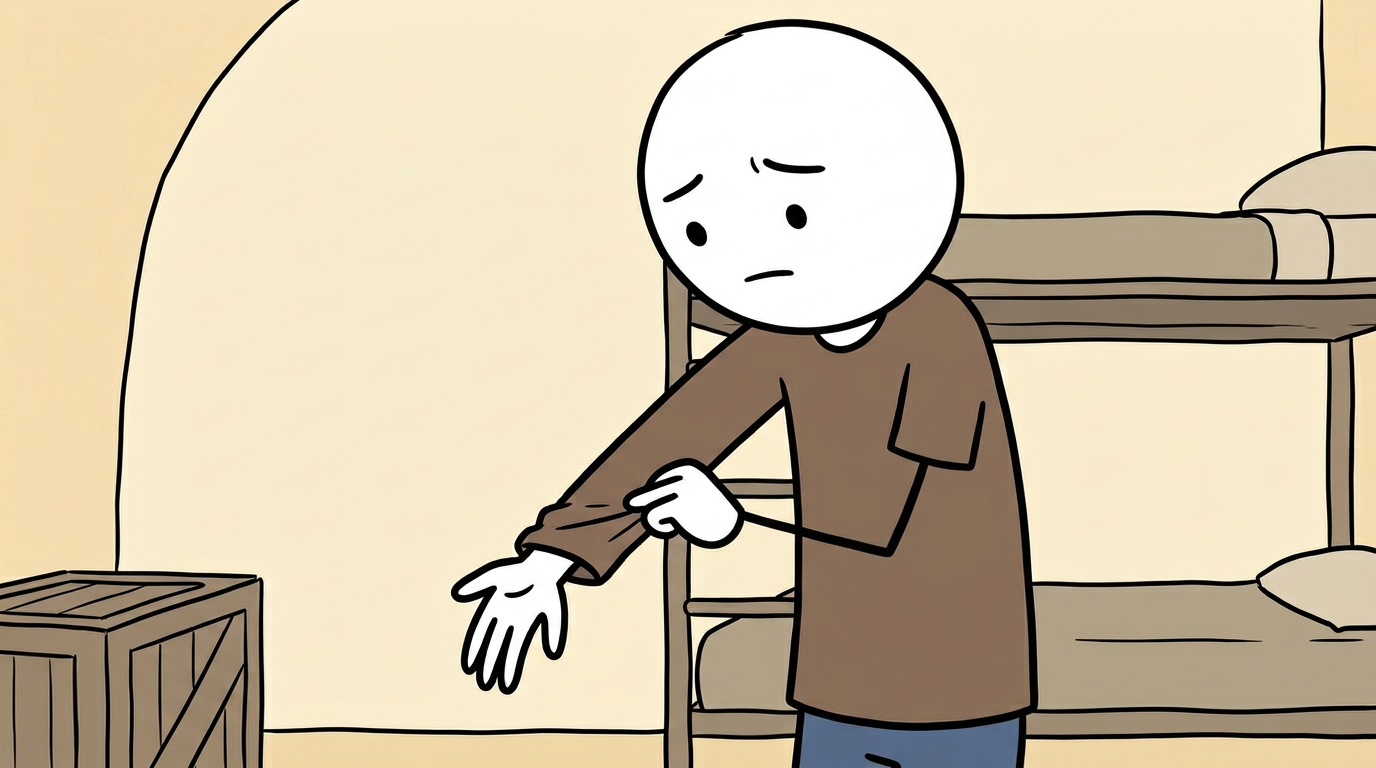
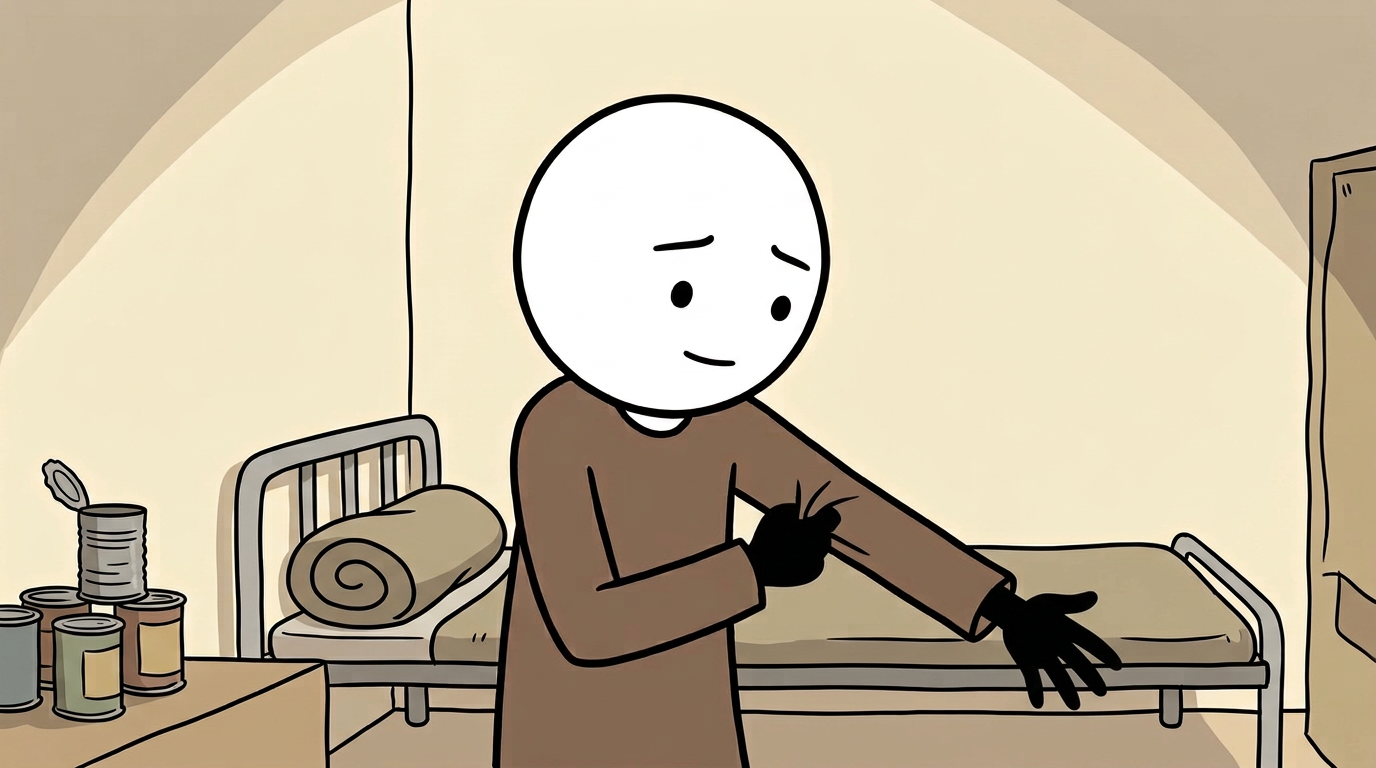
Complete Worker 4 frame paths with declared visual exceptions

diff --git a/one_of_them_video/STATE.md b/one_of_them_video/STATE.md
@@ -287,3 +287,33 @@ Branch: arena/65278339-newrepo2
 - Contact sheet: /home/user/one_of_them_qc/batch_pending_01_sheet.jpg.
 - Next: resolve missing 10m06, 10m23, 11m05 and review the 11m17 exception;
   no final video is possible until every required frame is present.
+
+## 2026-11-01 (Worker 4, final pending-frame batch)
+
+- All 83 assigned frame paths now exist (verified against rows 263-345).
+  This is NOT full-project completion: Workers 1-3 remain separate, and
+  two Worker 4 images below are declared visual exceptions for review.
+- DECLARED VISUAL EXCEPTION 10m06: after repeated moderation blocks, the
+  closest returned image shows survivors waving boards, but it resembles a
+  split composition and the protagonist holds a cup rather than actively
+  fighting. A repair specifying a single continuous scene was blocked. It is
+  shipped as the closest available image, not represented as a full QC pass.
+  The prior missing-frame exception is resolved by this candidate.
+- DECLARED VISUAL EXCEPTION 10m23: repeated attempts showing the knife were
+  blocked. The only returned candidate shows the protagonist behind the
+  green-coat woman with a star and motion lines, but does NOT clearly depict
+  the knife or action in the narration. It is shipped as an implied-action
+  substitute for review, not represented as an exact depiction.
+- 11m05 resolved: symbolic survivor silhouettes with raised boards and the
+  protagonist at a distance convey the feared living-world threat. No gun is
+  visible; boards are the weapon shapes. No actual event is implied.
+- 11m17 replacement resolves the earlier sleeve exception: both arms now
+  have brown sleeves down, one hand adjusts the other sleeve and no scar is
+  exposed. The previous short-sleeve version is in the contact sheet.
+- 10m23 green coat and short dark hair match 10m07; 11m17 protagonist's
+  brown long sleeves match 10m14. No new anchor.
+- Contact sheet (including earlier 11m17 version and 10m06 closest image):
+  /home/user/one_of_them_qc/batch_pending_02_sheet.jpg. The blocked 10m06
+  repair returned no image and is therefore not shown as an image.
+- Next: review exceptions 10m06/10m23, collect and integrate Workers 1-3,
+  verify all 345 frames before thumbnail and Kaggle runner/handoff stages.
